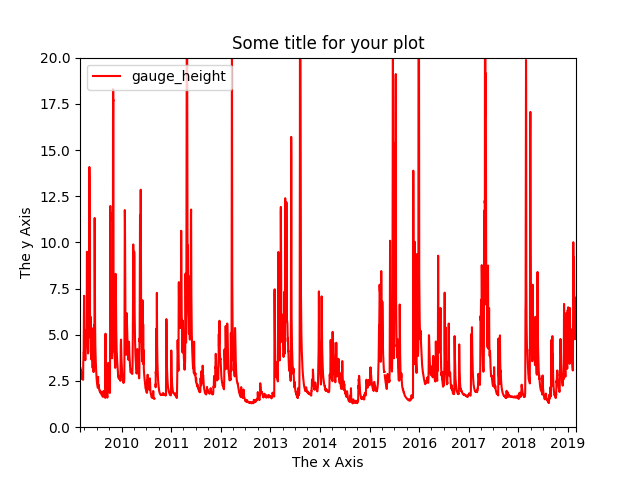
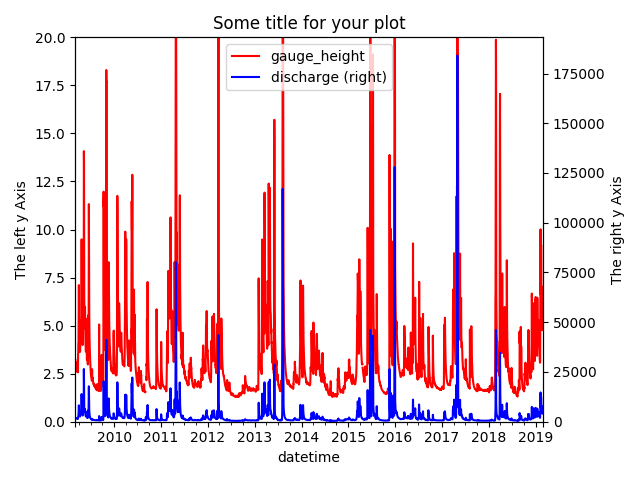
Added everything to make sure I didn't miss adding anythin

Changed region(s): [[0.0, 0.0312, 0.9688, 0.9688]]

diff --git a/data_analysis.py b/data_analysis.py
@@ -34,33 +34,33 @@ database["datetime"] = pandas.to_datetime(database["datetime"])
 #specific_date_by_matching_date = database.loc[database['datetime'] == '2019-03-01']
 ##print(specific_date_by_matching_date)
 
-##plotting examples
-#histogram
-database.plot.hist(x='datetime', y='gauge_height')
-plt.savefig('histogram.png')
-plt.close('all')
+###plotting examples
+##histogram
+#database.plot.hist(x='datetime', y='gauge_height')
+#plt.savefig('histogram.png')
+#plt.close('all')
 
-#scatter
-plt.scatter(database['datetime'], database['discharge'])
-plt.savefig('scatter_plot.png')
-plt.close('all')
+##scatter
+#plt.scatter(database['datetime'], database['discharge'])
+#plt.savefig('scatter_plot.png')
+#plt.close('all')
 
-#line
-database.plot.line(x='datetime', y='discharge')
-plt.savefig('line_plot.png')
-plt.close('all')
+##line
+#database.plot.line(x='datetime', y='discharge')
+#plt.savefig('line_plot.png')
+#plt.close('all')
 
-#making a pretty plot
-ax1 = database.plot.line(x='datetime', y='gauge_height', c='r')
-ax2 = database.plot.line(x='datetime', y='discharge', c='b', secondary_y=True, ax=ax1)
-ax1.set_ylim([0., 20.])
-ax1.set_ylabel('The left y Axis')
-ax2.set_ylim(bottom=0.0)
-ax2.set_ylabel('The right y Axis')
-plt.title('Some title for your plot')
-plt.xlabel('The shared x Axis')
-plt.tight_layout()
-plt.savefig('pretty_plot.png')
-plt.close('all')
+##making a pretty plot
+#ax1 = database.plot.line(x='datetime', y='gauge_height', c='r')
+#ax2 = database.plot.line(x='datetime', y='discharge', c='b', secondary_y=True, ax=ax1)
+#ax1.set_ylim([0., 20.])
+#ax1.set_ylabel('The left y Axis')
+#ax2.set_ylim(bottom=0.0)
+#ax2.set_ylabel('The right y Axis')
+#plt.title('Some title for your plot')
+#plt.xlabel('The shared x Axis')
+#plt.tight_layout()
+#plt.savefig('pretty_plot.png')
+#plt.close('all')
 
 
